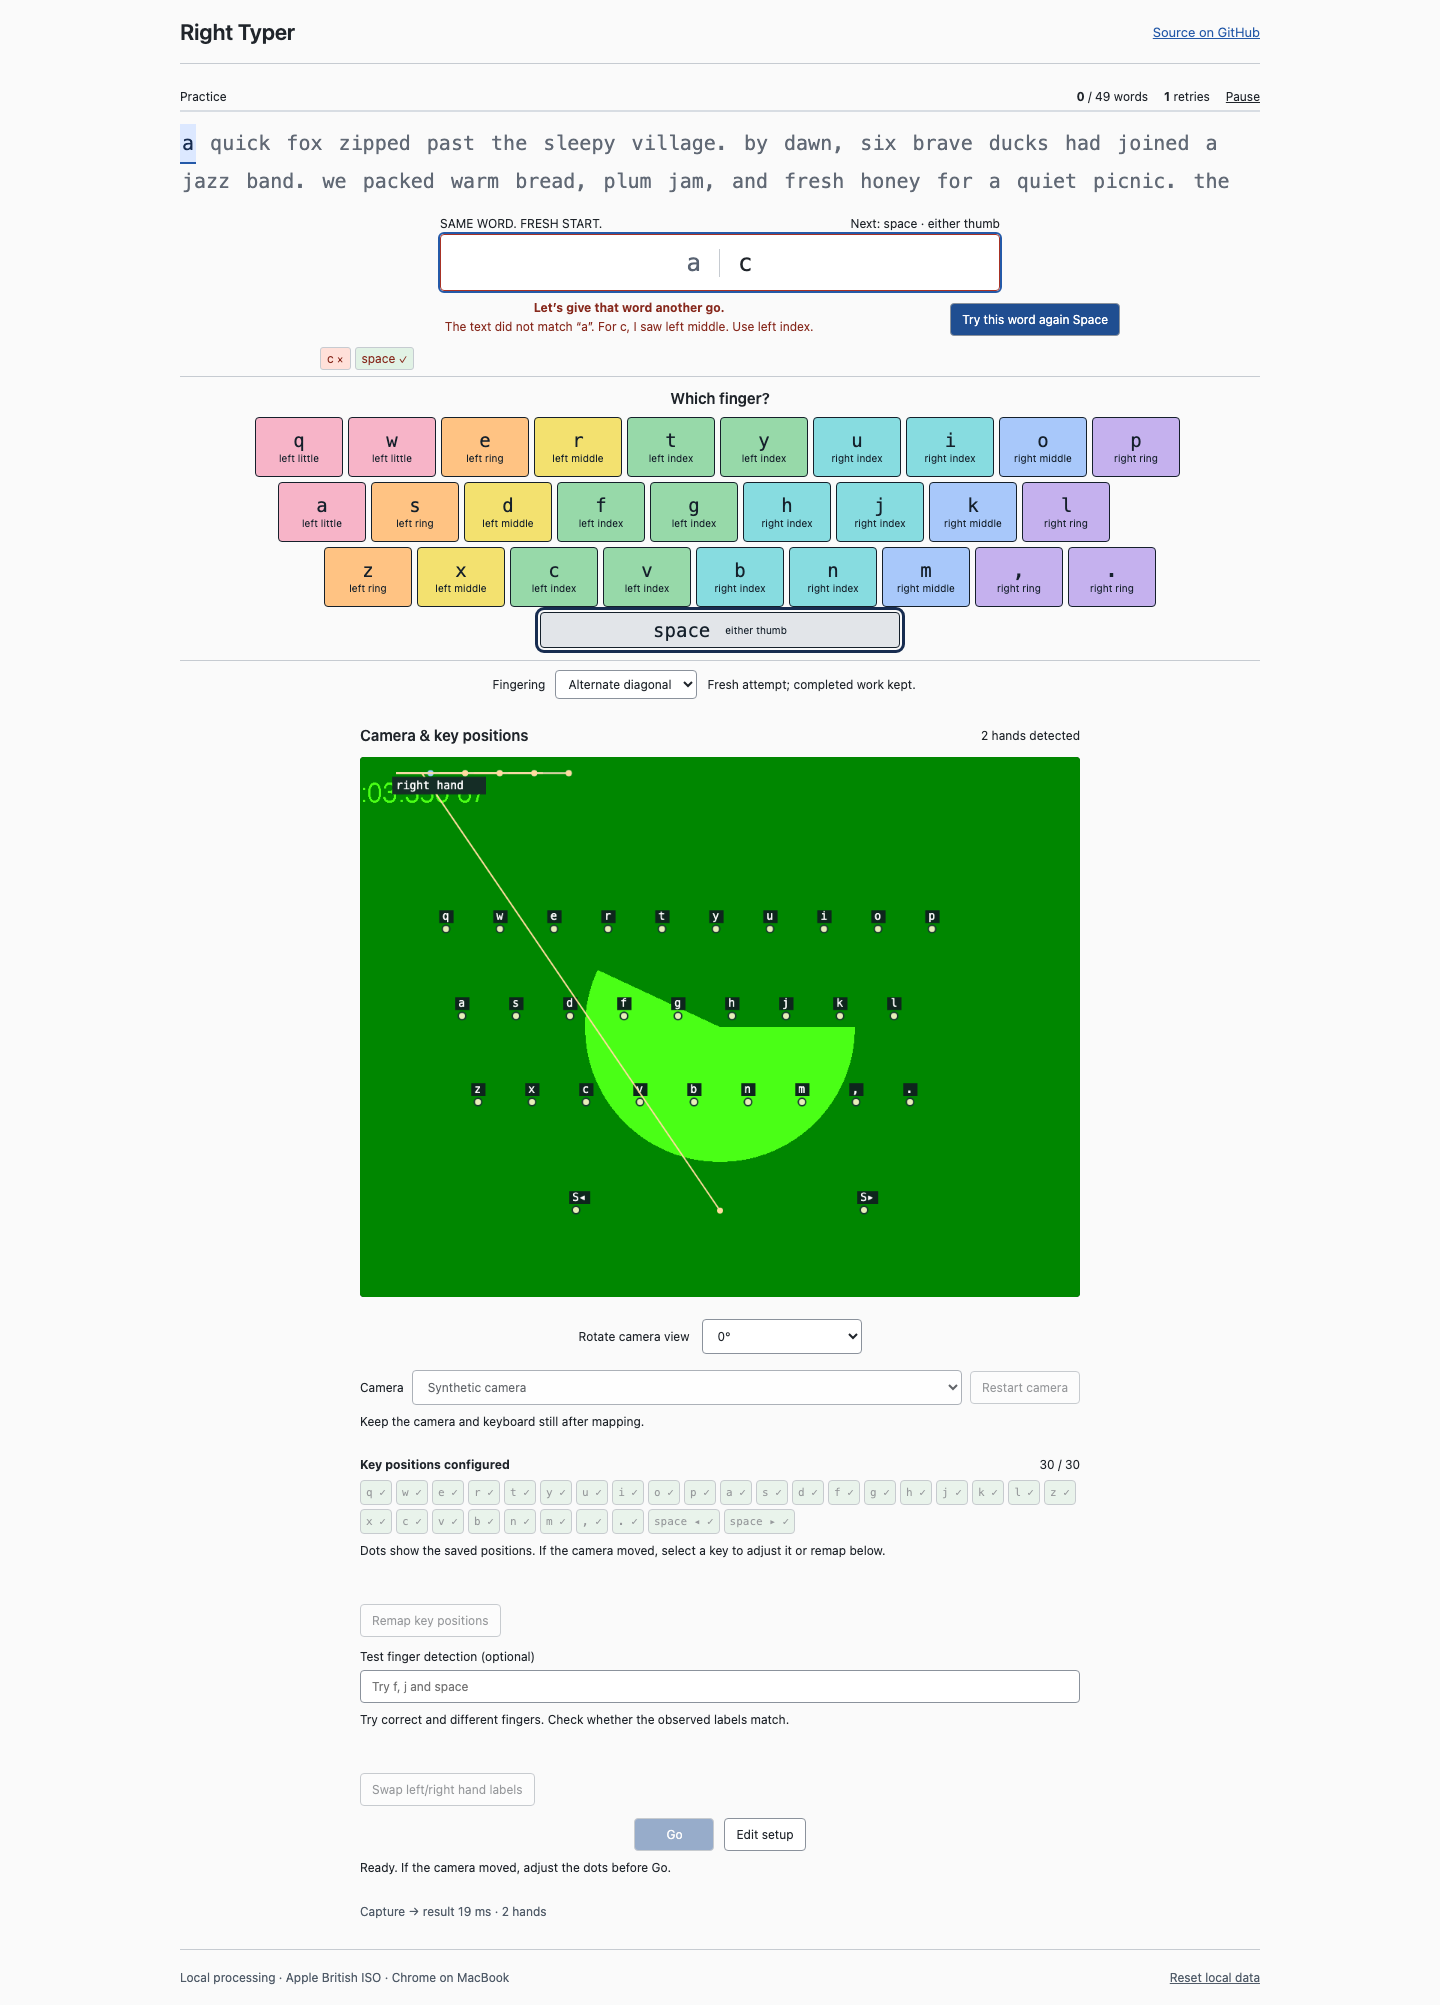
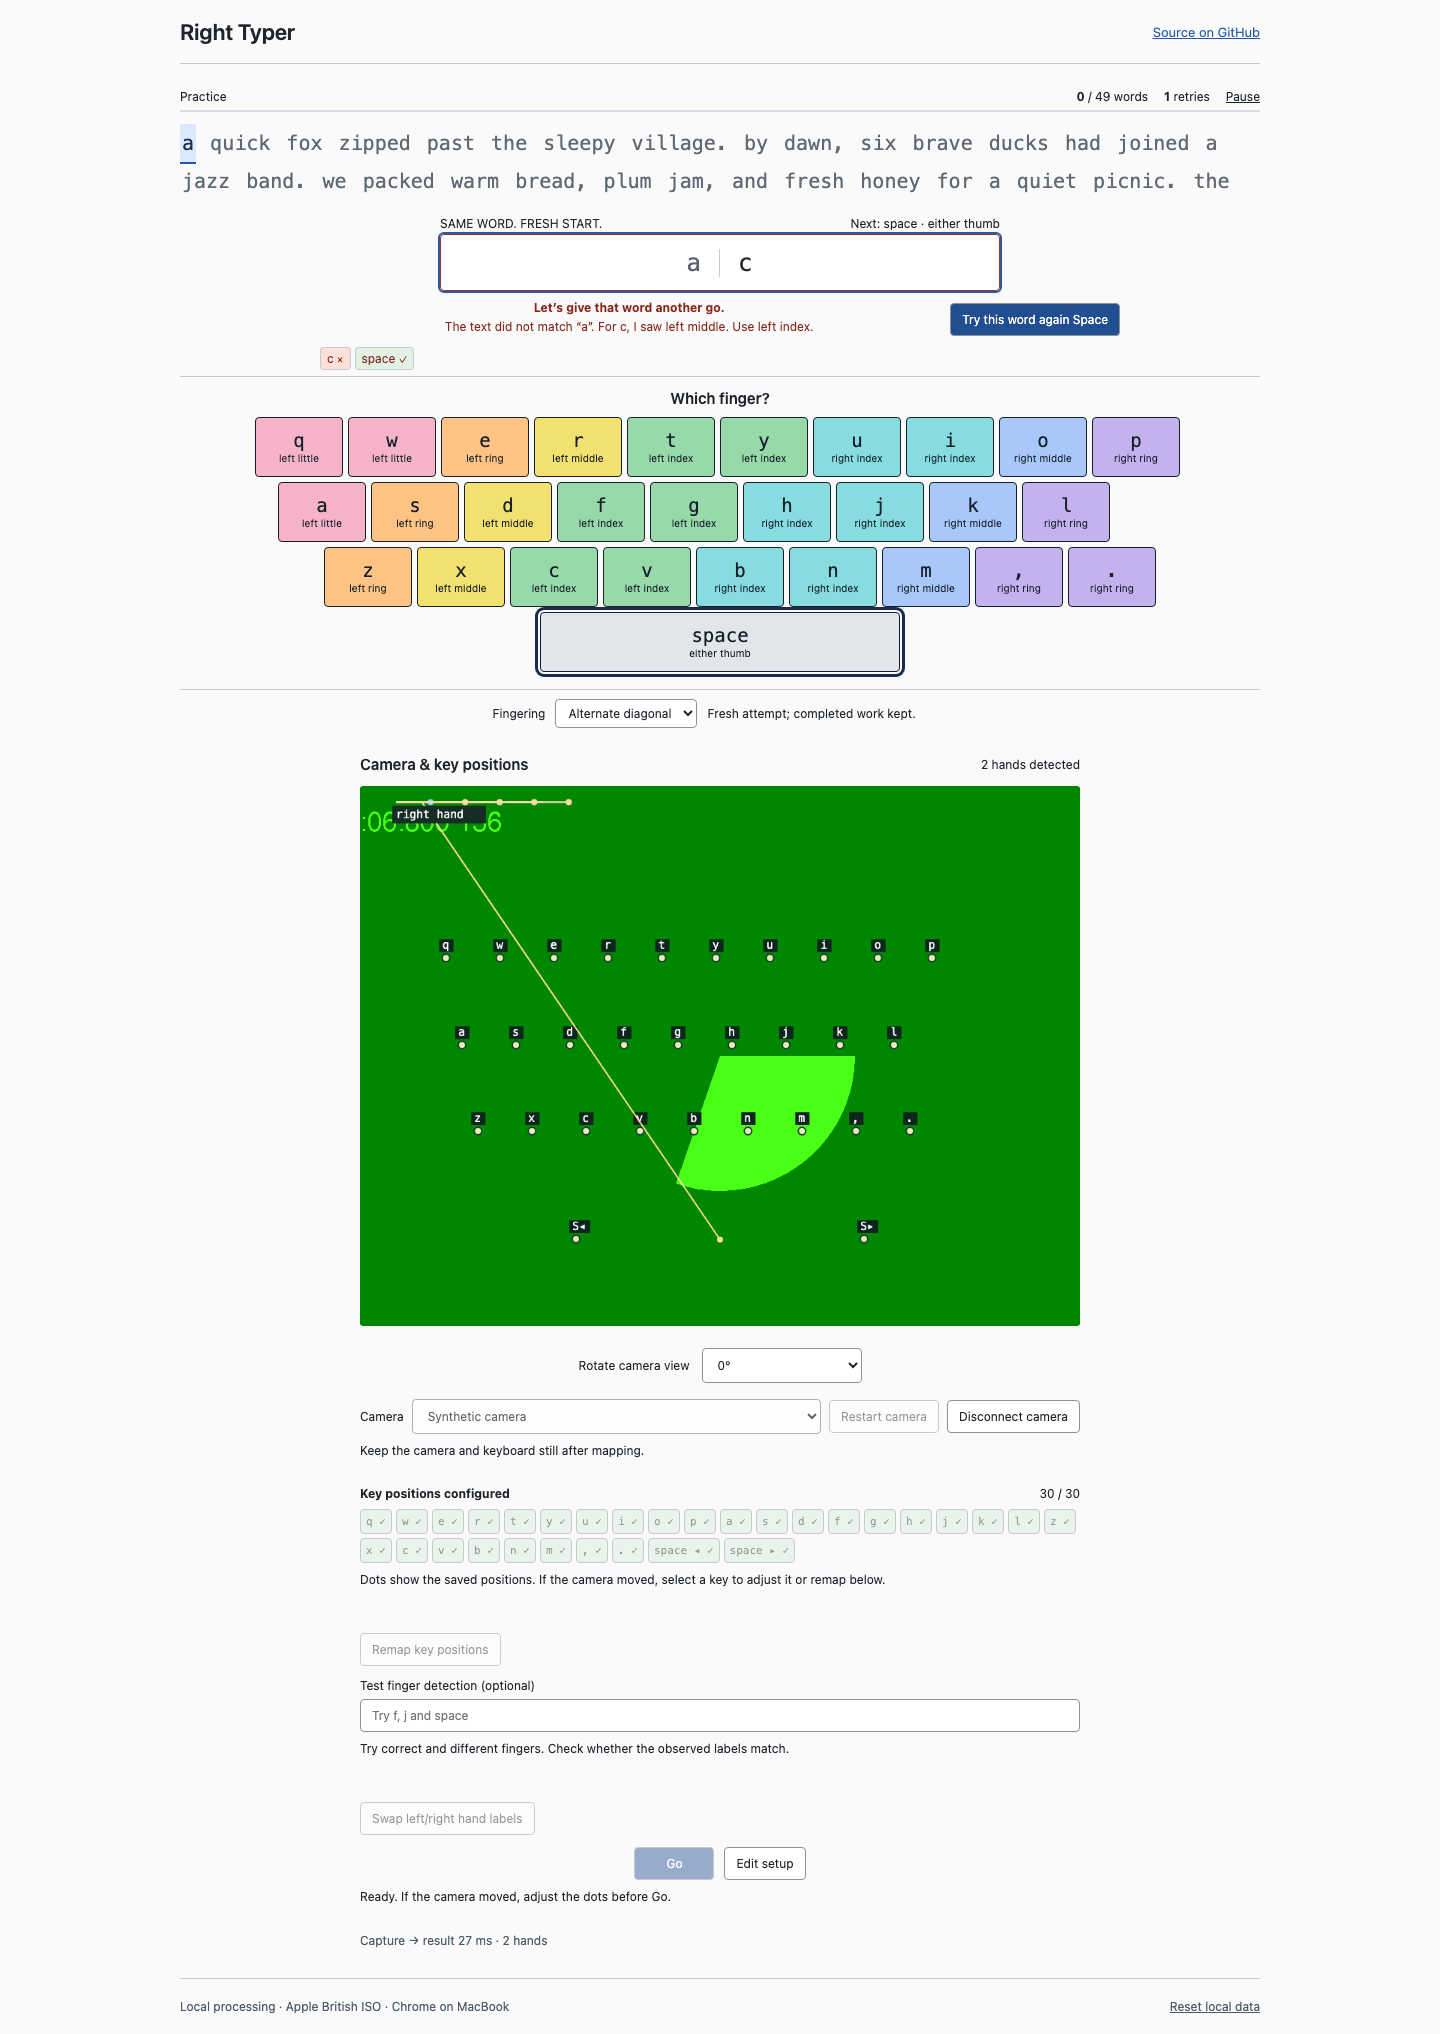
Let keyboard section contain stacked spacebar after rebase

diff --git a/src/style.css b/src/style.css
@@ -234,7 +234,7 @@ main {
   margin: 0;
 }
 #finger-map {
-  height: 285px;
+  min-height: 285px;
   padding: 12px 0;
   border-top: 1px solid var(--line);
   border-bottom: 1px solid var(--line);
